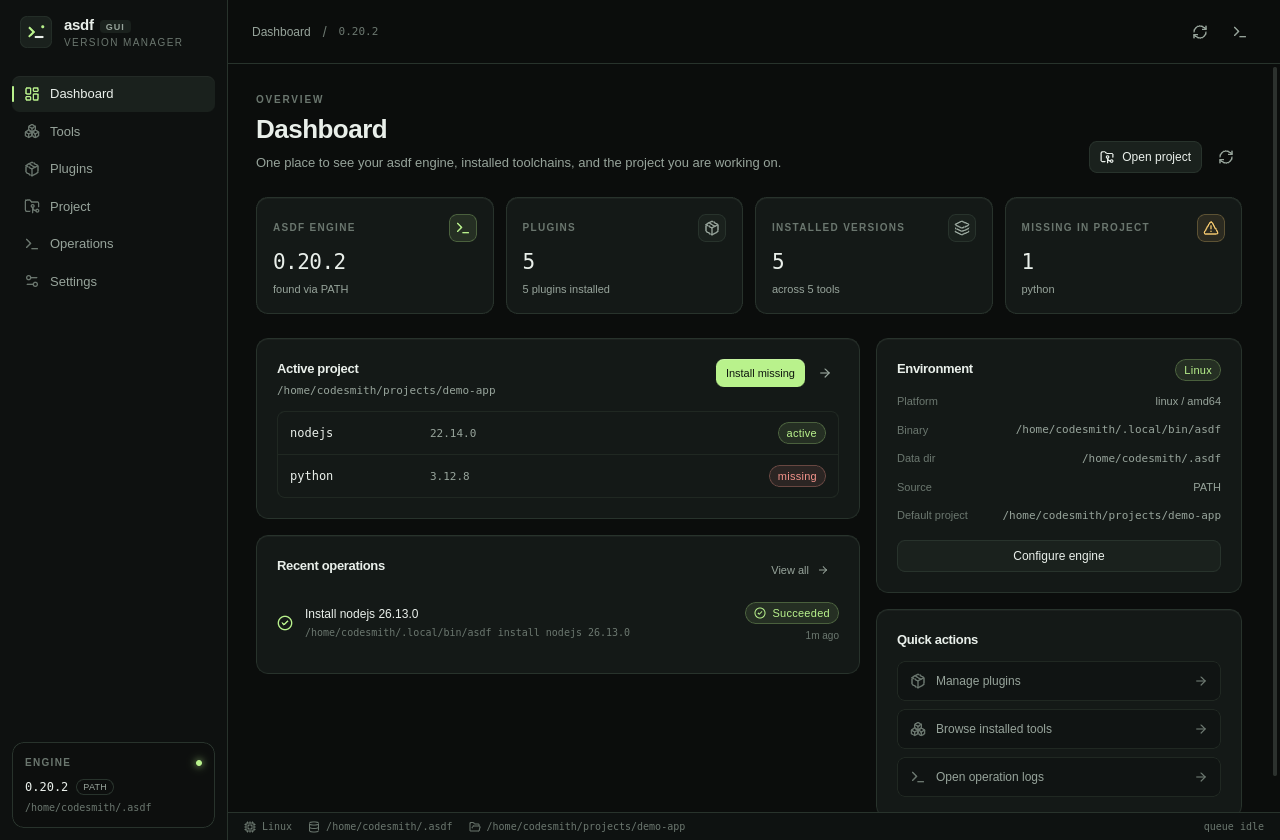
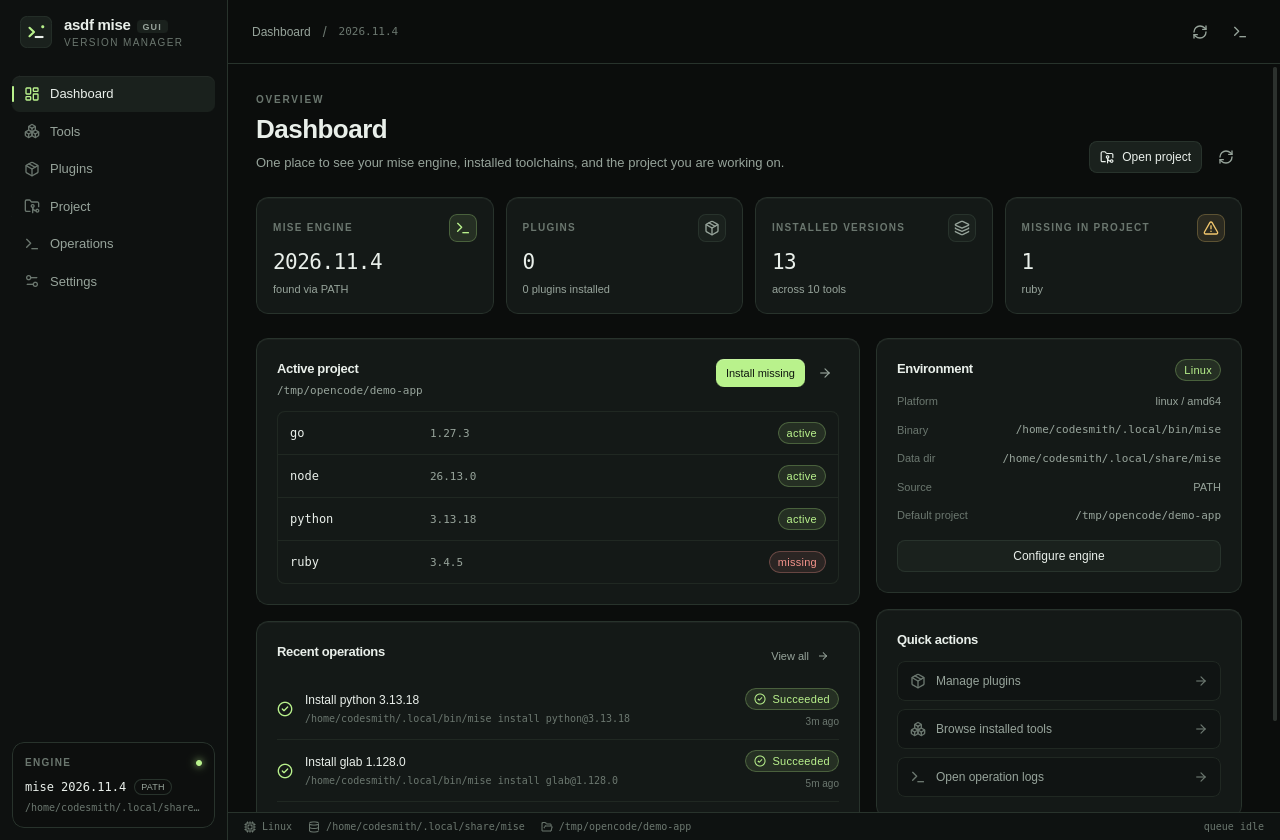
docs: refresh screenshots against the renamed mise build
- recapture all six screens at 1280x840 with the asdf mise GUI branding
- show the app driving mise in dark theme with the demo project open
- replace the pre-rename note with the current engine-aware description
- update plugins, project, and operations captions to match the captures

diff --git a/README.md b/README.md
@@ -49,9 +49,9 @@
 
 ## Screenshots
 
-Every screen below is real data from the running app. Click an image to open
-the full-size capture. These captures predate the rename and used the asdf
-engine; the app now reads **asdf mise GUI** and drives either asdf or mise.
+Every screen below is a real capture of the running app driving mise. Click an
+image to open the full-size shot. The same screens drive asdf when it is
+selected as the engine.
 
 <table>
   <tr>
@@ -68,19 +68,19 @@ engine; the app now reads **asdf mise GUI** and drives either asdf or mise.
   </tr>
   <tr>
     <td width="50%" valign="top">
-      <a href="./docs/assets/screenshots/plugins.png"><img src="./docs/assets/screenshots/plugins.png" alt="Plugins screen listing installed plugins with git refs, repository URLs, and version and update actions" width="100%" /></a>
+      <a href="./docs/assets/screenshots/plugins.png"><img src="./docs/assets/screenshots/plugins.png" alt="Plugins screen showing the full searchable mise registry with add actions" width="100%" /></a>
       <br/>
-      <sub><strong>Plugins</strong> — registry search, git refs, and update or remove actions.</sub>
+      <sub><strong>Plugins</strong> — browse the entire asdf or mise registry in one searchable list.</sub>
     </td>
     <td width="50%" valign="top">
-      <a href="./docs/assets/screenshots/project.png"><img src="./docs/assets/screenshots/project.png" alt="Project screen editing a .tool-versions file with active and missing version badges, recent projects, and global pins" width="100%" /></a>
+      <a href="./docs/assets/screenshots/project.png"><img src="./docs/assets/screenshots/project.png" alt="Project screen editing a mise.toml file with active and missing version badges, recent projects, and global pins" width="100%" /></a>
       <br/>
       <sub><strong>Project</strong> — edit <code>.tool-versions</code> or <code>mise.toml</code> and install missing pins.</sub>
     </td>
   </tr>
   <tr>
     <td width="50%" valign="top">
-      <a href="./docs/assets/screenshots/operations.png"><img src="./docs/assets/screenshots/operations.png" alt="Operations screen showing a running nodejs install with streamed output, queue counts, and cancel controls" width="100%" /></a>
+      <a href="./docs/assets/screenshots/operations.png"><img src="./docs/assets/screenshots/operations.png" alt="Operations screen showing completed mise installs with streamed output and queue counts" width="100%" /></a>
       <br/>
       <sub><strong>Operations</strong> — one serialized queue, live output, and a persisted log for every run.</sub>
     </td>
